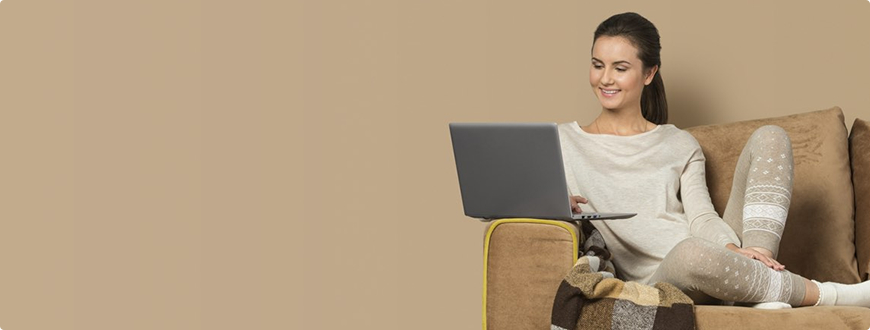
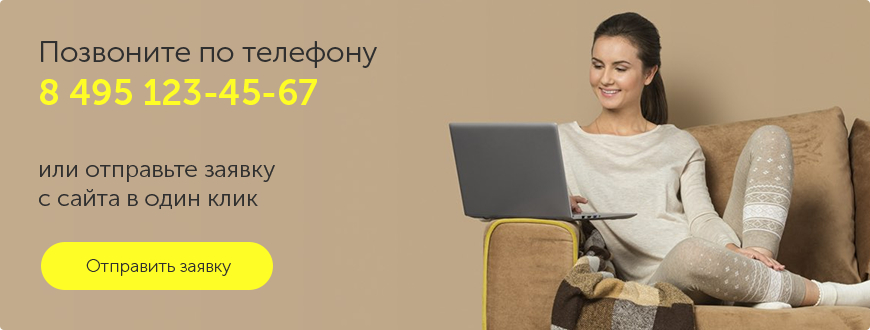
final

diff --git a/app/index.html b/app/index.html
@@ -22,10 +22,10 @@
 		<div class="top_slider_wrap">
 			<div class="top">
 				<div class="w_1200">
-					<div class="col-lg-4 col-md-5 col-sm-4 col-xs-offset-2 col-sm-offset-0 col-md-offset-0 col-lg-offset-2 col-xs-8 col-logo">
+					<div class="col-lg-4 col-md-5 col-sm-4 col-xs-offset-2 col-sm-offset-0 col-md-offset-0 col-lg-offset-0 col-xs-8 col-logo">
 						<a href="/" class="logo"><img src="img/logo.png" alt=""></a>
 					</div>
-					<div class="col-lg-8 col-md-6 col-sm-6 col-xs-offset-2 col-sm-offset-0 col-md-offset-0 col-lg-offset-2 col-xs-8 col-contacts">
+					<div class="col-lg-8 col-md-6 col-sm-6 col-xs-offset-2 col-sm-offset-0 col-md-offset-0 col-lg-offset-0 col-xs-8 col-contacts">
 						<div class="top_contacts">	
 							<div class="top_phone">8 (495) 123-45-67</div>
 							<div class="top_mail"><a href="mailto:info@remontroom24.ru">info@remontroom24.ru</a></div>
@@ -63,22 +63,10 @@
 						Главными принципами, которыми руководствуется компания «doma63.ru» в своей работе, это принципы полной прозрачности для Заказчика всех этапов производства работ от составления сметы до подписания Акта выполненных работ и принцип обеспечения максимального комфорта для Заказчика.
 					</p>
 					<div class="content_banner">
-						<img src="img/banner_content1.jpg" alt="">
-						<div class="content_banner_text">
-							<div class="like_h2">Позвоните по телефону</div>
-							<span>8 495 123-45-67</span>
-							<br>
-							<br>
-							<br>
-							<p>или отправьте заявку<br> с сайта в один клик</p>
-							<a class="order" href="#order">Оставить заявку</a>
-						</div>
+						<a href="#order"><img src="img/banner_content1.jpg" alt=""></a>
 					</div>
 					<div class="min_banner">
 						<img src="img/min_banner.jpg" alt="">
-						<div class="min_banner_text">
-							<p><span>20%</span> cкидка на евроремонт</p>
-						</div>
 					</div>
 					<br><br>
 					<table class="price_table">						

diff --git a/app/sass/_media.sass b/app/sass/_media.sass
@@ -2,6 +2,10 @@
 
 /* Large Devices, Wide Screens */
 @media only screen and (max-width : 1200px) 
+	.top_slider_wrap
+		border-bottom: 2px solid#293641 
+		padding-bottom: 5px
+
 	.content_banner, .min_banner
 		img 
 			width: 100%
@@ -29,7 +33,6 @@
 	.top_contacts 
 		margin-top: 23px
 	
-
 	.gray_line 
 		display: none
 	
@@ -39,7 +42,6 @@
 		a 
 			margin-bottom: 10px
 		
-
 	.all_tags 
 		position: absolute
 		right: 0
@@ -157,6 +159,13 @@
 			margin-bottom: 10px !important
 /* Small Devices, Tablets */
 @media only screen and (max-width : 768px) 	
+	.left_mnu 
+		li 
+			border-bottom: 1px solid #ccc
+
+	.footer_mail 
+		margin-bottom: 15px
+
 	.top_contacts 
 		margin-top: 0px
 

diff --git a/app/css/main.css b/app/css/main.css
@@ -918,6 +918,9 @@ blockquote {
 /*==========  Desktop First Method  ==========*/
 /* Large Devices, Wide Screens */
 @media only screen and (max-width: 1200px) {
+  .top_slider_wrap {
+    border-bottom: 2px solid #293641;
+    padding-bottom: 5px; }
   .content_banner img, .min_banner img {
     width: 100%; }
   .left_widget_vk > img {
@@ -1040,6 +1043,10 @@ blockquote {
 
 /* Small Devices, Tablets */
 @media only screen and (max-width: 768px) {
+  .left_mnu li {
+    border-bottom: 1px solid #ccc; }
+  .footer_mail {
+    margin-bottom: 15px; }
   .top_contacts {
     margin-top: 0px; }
   .toggle-mnu {
